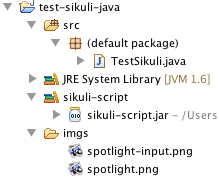
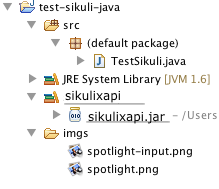
working on the docs

Changed region(s): [[0.3836, 0.582, 0.7945, 0.6614], [0.2466, 0.4762, 0.6575, 0.5556], [0.2466, 0.3968, 0.274, 0.4497]]

diff --git a/src/main/resources/docs/source/index.rst b/src/main/resources/docs/source/index.rst
@@ -1,5 +1,5 @@
-Sikuli Documentation for version 1.1+ (01/2014 and later)
-=========================================================
+Sikuli / SikuliX Documentation for version 1.1+ (01/2014 and later)
+===================================================================
 
 .. sidebar:: Getting Help
 
@@ -19,7 +19,9 @@ This document is being maintained by `Raimund Hocke aka RaiMan
 <https://launchpad.net/~raimund-hocke>`_.  
 
 If you have any questions or ideas about this document, 
-you are welcome to contact him directly via this link and the email behind. 
+you are welcome to contact him directly via the above link and the email behind. 
+
+More information and possibilities you can find on the homepage `Sikulix.com <http://sikulix.com>`_.
 
 For questions regarding the
 functions and features of Sikuli itself please use the `Sikuli Questions and
@@ -35,25 +37,25 @@ The documentation for the versions up to SikuliX-1.0rc3 is still available `here
 How to use this document
 ------------------------
 
-Sikuli at the top supports scripting via SikuliX IDE (a basic script editor allowing to load, edit, save and run scripts). 
+SikuliX at the top supports scripting via SikuliX IDE (a basic script editor allowing to load, edit, save and run scripts). 
 
 The first scripting language is Python (language level 2.5 (stable) and 2.7 being in a beta state, but rather complete) supported by the Jython interpreter package. 
 
 As a second scripting language Ruby (language level 1.9/2.0) can be used, which internally is supported by the JRuby interpreter package. 
 
-Principally it is possible to implement more scripting languages, if some Java based interpreter package is available for that (possible candidates: BeanShell, Scala, JavaScript, ...).
+Principally it is possible to implement more scripting languages, if some Java or JVM based interpreter package is available for that (possible candidates: BeanShell, Scala, JavaScript, ...).
 
 If you are new to
-programming, you can still enjoy using Sikuli to automate simple repetitive
+programming, you can still enjoy using SikuliX to automate simple repetitive
 tasks without learning one of the supported scripting languages using the SikuliX IDE. A good start might be to have a look at the :doc:`tutorials <tutorials/index>`.
 
 If you plan to write more powerful and
 complex scripts, which might even be structured in classes and modules, you have to dive into the `Python Language
 <http://www.jython.org/jythonbook/en/1.0/>`_ or the `Ruby Language <http://docs.ruby-doc.com/docs/ProgrammingRuby>`_.
 
-But be aware: Since the interpreters used are based on Java, the modules available for Python or Ruby might not be available in the Jython or JRuby environment. So before trying to use any non-standard modules are extension packages, you have to check, wether they are supported in this SikuliX environment.
+But be aware: Since the interpreters used are based on Java, the modules available for Python or Ruby might not be available in the Jython or JRuby environment. So before trying to use any non-standard modules or extension packages, you have to check, wether they are supported in this SikuliX environment.
 
-The features in Sikuli at the bottom line are implemented using Java. So you might as well use Sikuli on this Java level API in your Java projects or other Java aware environments (:doc:`see how to <faq/030-java-dev>`). Though this documentation is targeted at the scripting people it contains basic information about the Java level API as well at places, where there are major differences between the two API levels. Additionally you might look through the JavaDocs (`temporary location <https://dl.dropboxusercontent.com/u/42895525/docs/index.html>`_). 
+The features in SikuliX at the bottom line are implemented using Java. So you might as well use SikuliX at this Java API level in your Java projects or other Java aware environments (:doc:`see how to <faq/030-java-dev>`). Though this documentation is targeted at the scripting people it contains basic information about the Java level API as well at places, where there are major differences between the two API levels. Additionally you might look through the JavaDocs (`temporary location <https://dl.dropboxusercontent.com/u/42895525/docs/index.html>`_). 
 
 The preface of each chapter in this documentaton briefly describes 
 a class or a group of methods regarding its basic features. It
@@ -74,8 +76,8 @@ methods and functions in alphabetical order.
 Getting Started
 ---------------
 
-Tutorials
-^^^^^^^^^
+Tutorials (not yet revised for version 1.1.0+)
+^^^^^^^^^^^^^^^^^^^^^^^^^^^^^^^^^^^^^^^^^^^^^^
 
 .. toctree::
    :maxdepth: 2

diff --git a/src/main/resources/docs/source/faq/000-can-i-do-xxx.rst b/src/main/resources/docs/source/faq/000-can-i-do-xxx.rst
@@ -1,36 +1,52 @@
-Can I do X or Y or Z in Sikuli?
-===============================
+Can I do X or Y or Z in SikuliX?
+================================
 
-If you are wondering if Sikuli can do X or Y, these two rules apply:
+If you are wondering if Sikuli can do X or Y, these two general rules apply:
 
-* If you can do X with Java, you can also do it in Sikuli by simply adding the respective Java resources to the classpath (the standard Java classes are already there). For example, you can create a GUI with Java Swing, so you can do it in the same way in Sikuli. 
+* If you can do X with Java, you can also do it in SikuliX ...
 
-* If you can do X with Python, you probably can do it in Sikuli as well. This actually depends on what Python modules you use. Sikuli is with the contained Jython on language level 2.5 and language level 2.7 will be useable soon. So everything available in the respective Python base package is available in Sikuli too. If modules are written in pure Python, you can use them in Sikuli as well. A typical example are the Excel access modules xlrd and xlwt. If they are written in C or depend on C-based modules, unfortunately, you can't (e.g. the support for Win32API calls).
+	... by simply adding the respective Java resources to the classpath (the standard Java classes are already there). 
+	
+	For example, you know how to create a GUI with Java Swing, you can do it in the same way in SikuliX. 
 
-Can I write a loop in Sikuli?
------------------------------
+* If you can do X with Python, you probably can do it in SikuliX as well. 
 
-Yes. Sikuli uses Jython (Python). 
-You can use all constructs that are available in standard Python. See Jython's `While loop <http://www.jython.org/jythonbook/en/1.0/LangSyntax.html#while-loop>`_ and `For loop <http://www.jython.org/jythonbook/en/1.0/LangSyntax.html#for-loop>`_.
+	This actually depends on what Python modules you want to use. SikuliX is on Python language level 2.5 and 2.7. So everything available in the respective Python base package is available in SikuliX too. 
+	
+	If modules are written in pure Python, you can use them in SikuliX as well. A typical example are the Excel access modules xlrd and xlwt. 
+	
+	If modules are written in C or depend on C-based stuff, unfortunately, you can't use them in SikuliX (e.g. the support for Win32API calls). 
+	
+	But it always is a good idea to check in the net, wether there either is a feature compatible module already available for Jython or you might use an appropriate Java library package.
+
+* To Ruby the same rule applies accordingly.
+
+**For any specific question it is always a good idea to first consult** `SikuiX's FAQs and Questions <https://answers.launchpad.net/sikuli>`_
+
+**Then search with Google for the topic mentioning Jython, JRuby or even Sikuli - you will get tons of hints and snippets.** 
 
 
-Can I create a GUI in Sikuli?
------------------------------
+Can I write a loop in SikuliX?
+------------------------------
 
-Yes, you can create GUIs with Java Swing or any other Java/Jython GUI toolkits.
-See `Jython's Swing examples <http://wiki.python.org/jython/SwingExamples>`_ for examples.
-
+Yes. Check the `Python <http://www.jython.org/jythonbook/en/1.0/>`_ or `Ruby <http://docs.ruby-doc.com/docs/ProgrammingRuby>`_ language specs and/or tutorials.  
 
 
-Can I connect to MySQL/MS SQL/PostgreSQL or any database systems in Sikuli?
----------------------------------------------------------------------------
+Can I create a GUI in SikuliX?
+------------------------------
+
+Yes. You can create GUIs with Java Swing or any other Java/Jython/JRuby GUI toolkit.
+
+
+Can I connect to MySQL/MS SQL/PostgreSQL or any database systems in SikuliX?
+----------------------------------------------------------------------------
 
 You can use `JDBC <http://www.oracle.com/technetwork/java/javase/jdbc/index.html>`_ or `zxJDBC <http://www.jython.org/jythonbook/en/1.0/DatabasesAndJython.html>`_.
 
 
-Can I read/write files in Sikuli?
----------------------------------
+Can I read/write files in SikuliX?
+----------------------------------
 
-Yes. See Jython's `File I/O <http://www.jython.org/jythonbook/en/1.0/InputOutput.html#file-i-o>`_.
+Yes. Check the `Python <http://www.jython.org/jythonbook/en/1.0/>`_ or `Ruby <http://docs.ruby-doc.com/docs/ProgrammingRuby>`_ language specs and/or tutorials.
 
 

diff --git a/src/main/resources/docs/source/faq/010-command-line.rst b/src/main/resources/docs/source/faq/010-command-line.rst
@@ -1,50 +1,85 @@
-How to run Sikuli from Command Line
-===================================
+How to run SikuliX from Command Line
+====================================
 
-SikuliX IDE or Script can be used on command line to run a Sikuli script or open it in the IDE. 
+SikuliX can be used on command line to run a Sikuli script or open the IDE. 
 
 The usage on each platform:
 
 .. windows::
 
-   :command:`PATH-TO-SIKULIX/runIDE.cmd [options]` or 
-   :command:`PATH-TO-SIKULIX/runScript.cmd [options]` 
+   :command:`PATH-TO-SIKULIX/runsikulix.cmd [options]`
 
 .. mac::
 
-   :command:`PATH-TO-SIKULIX/runIDE [options]` or
-   :command:`PATH-TO-SIKULIX/runScript [options]`
+   :command:`PATH-TO-SIKULIX/runsikulix [options]`
 
 .. linux::
 
-   :command:`PATH-TO-SIKULIX/runIDE [options]` or
-   :command:`PATH-TO-SIKULIX/runScript [options]`
+   :command:`PATH-TO-SIKULIX/runsikulix [options]`
    
-**runIDE(.cmd) without any options** simply starts SikuliX IDE.
+**runsikulix(.cmd) without any options** simply starts SikuliX IDE.
 
 **PATH-TO-SIKULIX** is the folder containing the Sikuli stuff after having run setup.
 
-Command Line Options
---------------------
 
-:program:`SikuliX IDE or Script`
+Command Line Options (generally, debug output related)
+------------------------------------------------------
 
-.. option:: -- <arguments>          
+:program:`PATH-TO-SIKULIX/runsikulix(.cmd)`
 
-   the space delimeted and optionally quoted arguments are passed to Jython's sys.argv and hence are available to your script
+.. option::  -d,--debug <value> (up to 3 makes sense)                    
 
-.. option::  -h,--help                      
-
-   print the help message showing the available options
-
-.. option::  -r,--run <sikuli-folder/file>         
-
-   run .sikuli or .skl file
+   raise the verbosity level of SikuliX's internal debug messages - might be useful to clarify odd situations
    
+.. option::  -f,--logfile [<path to log file>]                    
+
+	 a valid filename (if omitted: WorkingDir/SikuliLog.txt) where SikliX's log messages should be written to
+	 
+.. option::  -u,--userlog [<path to log file>]                    
+
+   a valid filename (if omitted: WorkingDir/UserLog.txt) where user log messages created using Debug.user() should be written to 
+
+
+Command Line Options (special)
+------------------------------
+
+:program:`PATH-TO-SIKULIX/runsikulix(.cmd)`
+
+.. option::  -h,--help                    
+
+	 print a help message showing the available options and exit
+	 
+.. option::  -i,--interactive                    
+
+   open an interactive Jython session that is prepared for the usage of the SikuliX features
+
+
+Command Line Options (intention: IDE should open)
+-------------------------------------------------
+
+:program:`PATH-TO-SIKULIX/runsikulix(.cmd)`
+
 .. option::  -c,--console                    
 
    all output goes to stdout
 
-.. option::  -i,--interactive                    
 
-   open an interactive Jython session that is prepared for the usage of the Sikuli features
+Command Line Options (intention: run a script without opening the IDE)
+----------------------------------------------------------------------
+
+:program:`PATH-TO-SIKULIX/runsikulix(.cmd)`
+   
+.. option::  -r,--run <sikuli-folder/file>         
+
+   run .sikuli or .skl file
+
+
+Command Line Options (intention: provide user parameters for running scripts)
+-----------------------------------------------------------------------------
+
+:program:`PATH-TO-SIKULIX/runsikulix(.cmd)`
+
+.. option:: -- <arguments>          
+
+   the space delimeted and optionally quoted arguments are passed to Jython's sys.argv and hence are available to your script
+   

diff --git a/src/main/resources/docs/source/faq/030-java-dev.rst b/src/main/resources/docs/source/faq/030-java-dev.rst
@@ -1,24 +1,48 @@
 
-How to use Sikuli Script in your JAVA programs
-==============================================
+How to use SikuliX API in your JAVA programs
+============================================
 
 .. _howtojava:
 
-The core of Sikuli Script is written in Java, which means you can use Sikuli Script as a standard JAVA library in your program. This document lets you know how to do that. 
+The core of SikuliX is written in Java, which means you can use the SikuliX API as a standard JAVA library in your program. 
 
-After having setup Sikuli on your system, as recommended on the `download page <http://sikuli.org/download.shtml>`_, you have to do the following:
+After having setup SikuliX on your system, as recommended at `Getting started <http://www.sikulix.com/quickstart.html>`_, you have to do the following:
 
-1. Include sikuli-script.jar in the CLASSPATH of your Java project.
+1. Include sikulixapi.jar in the CLASSPATH of your Java project.
 ------------------------------------------------------------------- 
 
-We use Eclipse as an example. After adding sikuli-script.jar or preferably sikuli-java.jar as a library reference into your project, the project hierarchy should look like this.
+After adding sikulixapi.jar as a library reference into your project, the project hierarchy in Eclipse might look like this:
 
 .. image:: test-sikuli-project.png
+
+The same in Netbeans: 
+
+Project view
+
+.. image:: test-sikuli-project-nb.png
+
+Files view
+
+.. image:: test-sikuli-project-nbf.png
 
 2. Import the Sikuli classes you need
 -------------------------------------
 
-You can simply "import org.sikuli.script.*" or import the classes you need. In most cases, you would need at least :py:class:`Region` or :py:class:`Screen`.
+You can simply use 
+
+.. code-block:: java
+
+	import org.sikuli.script.*;
+
+or import the classes you need:
+
+.. code-block:: java
+
+	import org.sikuli.script.Screen;
+
+In most cases, you would need at least :py:class:`Screen` and/or :py:class:`Region`. 
+
+Other candidates are :py:class:`Pattern`, :py:class:`Match`, :py:class:`Location`, :py:class:`App` and some more.
 
 3. Write code!
 --------------
@@ -47,9 +71,16 @@ The program clicks on the spotlight icon on the screen, waits until spotlight's 
 
 	}
 
+A comment on projects using Maven
+---------------------------------
+
+It is planned, to publish sikulixapi.jar version 1.1.0+ on MavenCentral, so having a dependency in your project pom would be sufficient.
+
+Until then you either have to use a path-based dependency or manually import sikulixapi.jar appropriately into your local Maven repo.  
+
 See also
 --------
 Be aware, that some method signatures in the Java API differ from the scripting level.
- * `Javadoc of SikuliX <http://sikuli.org/doc/java-x/>`_.
+ * `Javadoc of SikuliX (temporary location) <https://dl.dropboxusercontent.com/u/42895525/docs/index.html>`_.
  * :doc:`/sikuli-script-index`.
 
